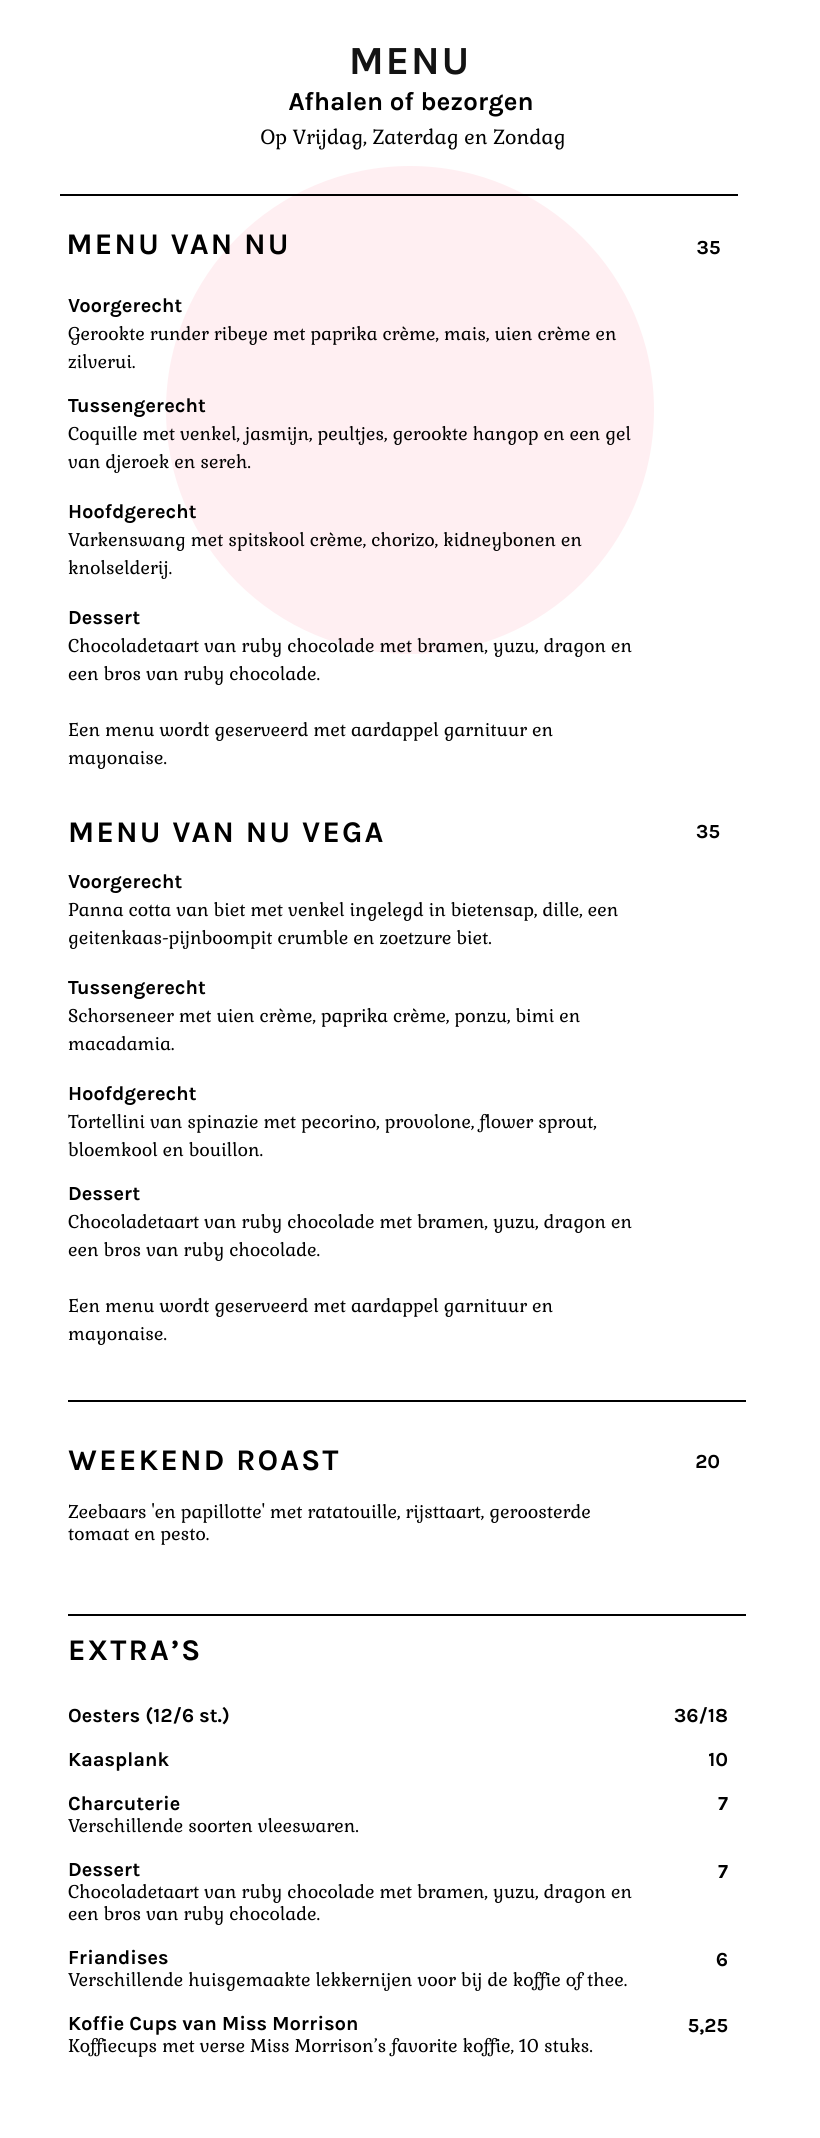
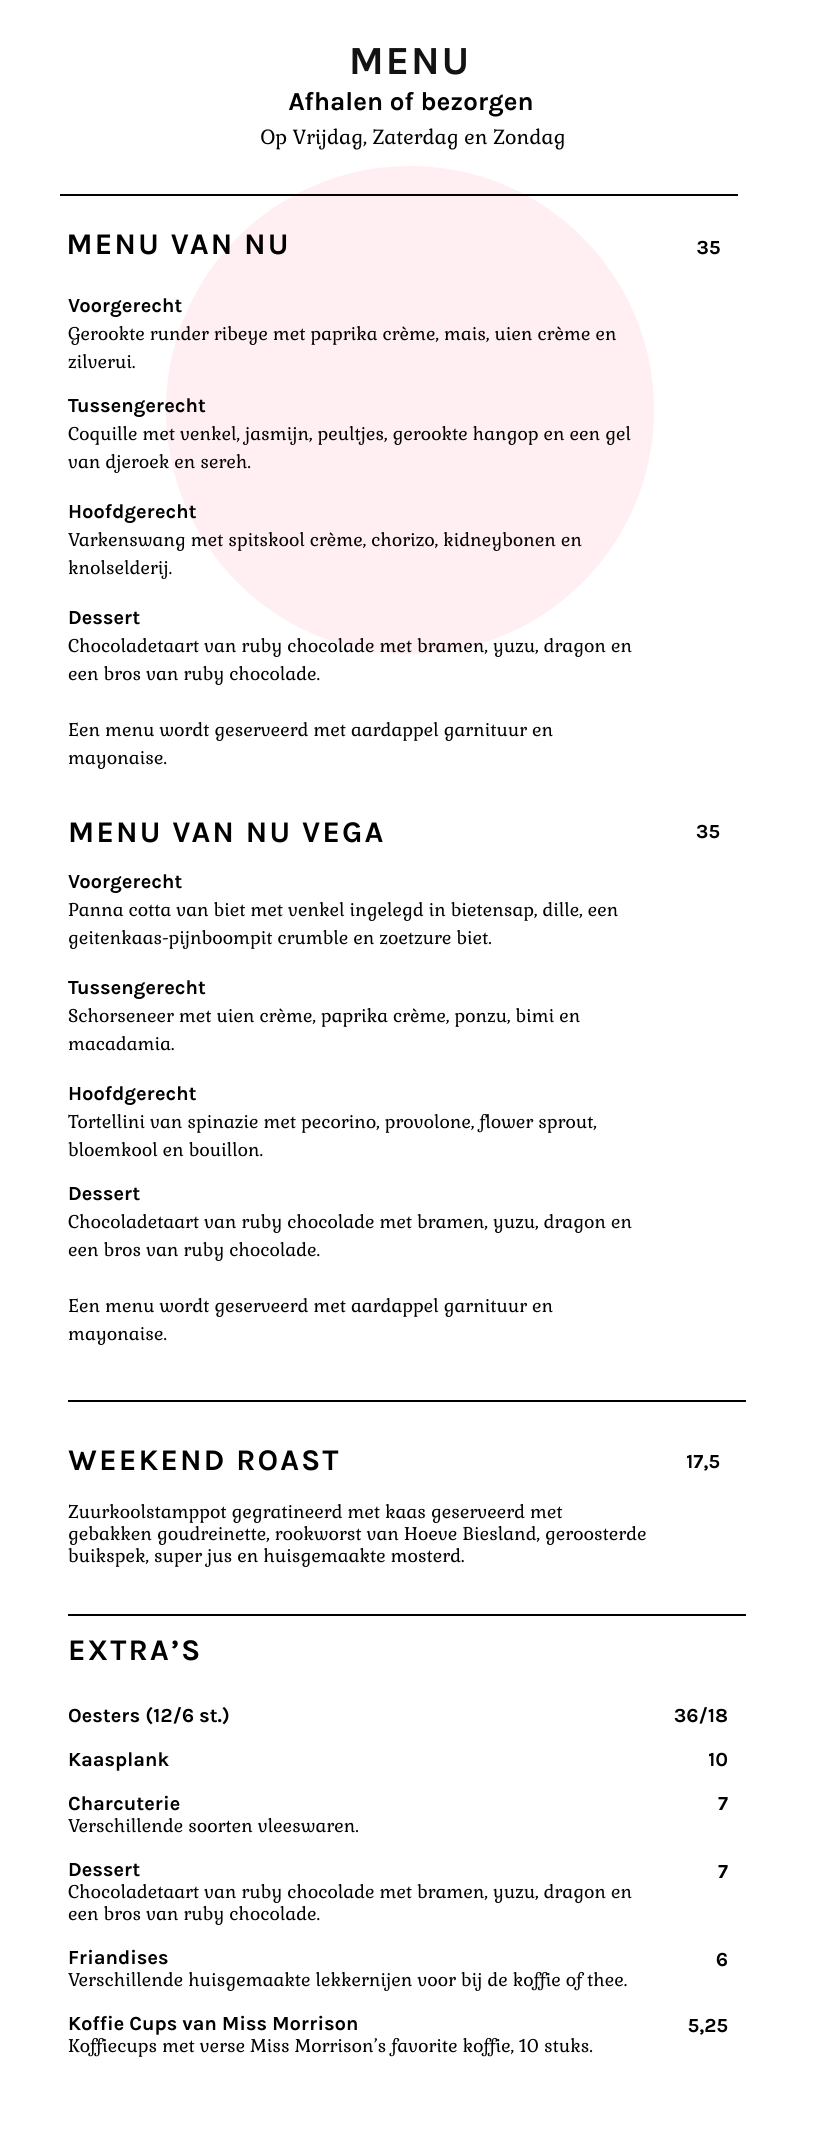
new roast

Changed region(s): [[0.0915, 0.6791, 0.6707, 0.7409]]

diff --git a/src/client/roast/index.html b/src/client/roast/index.html
@@ -105,14 +105,14 @@
           Zoals je van ons gewend bent maken we alles zelf met verse producten, dus bestel snel, want op = op!
       </p>
 
-      <p style="font-size:20px; font-family: Karla;"> <b> DIT WEEKEND - 11, 12, 13 DECEMBER</b></p>
+      <p style="font-size:20px; font-family: Karla;"> <b> DIT WEEKEND - 18, 19 en 20 DECEMBER</b></p>
       <div class="image-roast roast-header"></div><br>
-      <p>Zeebaars 'en papillotte' met ratatouille, rijsttaart, geroosterde tomaat en pesto. 
+      <p>Zuurkoolstamppot gegratineerd met kaas geserveerd met gebakken goudreinette, rookworst van Hoeve Biesland, geroosterde buikspek, super jus en huisgemaakte mosterd. 
       </p>
         <br>
         <p style="font-size:20px; font-family: Karla;"> <b> BIJPASSENDE WIJN </b></p>
-        <p><b>Zorzon – Pinot Grigio – D.O.C. Collio        </b></p>
-      <p>De acht hectaren aan wijngaarden van Zorzon bevinden zich in Collio, tegen de uitlopers van de Alpen aan de grens met Slovenië net buiten het dorpje Brazzano. De unieke grondsamenstelling in dit gebied die zorgt voor bijzondere wijnen noemen de Italianen ‘Ponca’. Deze bodem zorgt voor mineraalrijke wijnen. Neem deze Pinot Grigio: expressief en loepzuiver!
+        <p><b>Siegrist – Pinot Blanc – Q.b.A. Pfalz         </b></p>
+      <p>De eigenzinnige – en inmiddels 70 jaar oude wijnmaker – Thomas Siegrist maakt samen met zijn dochter en schoonzoon wijnen waar je voor omrijdt. Of in ons geval: wij rijden eens in de zoveel tijd speciaal naar de zuidelijke Pfalz om zijn wijnen in te slaan. Het pittoreske dorpje Leinsweiler ligt vlak tegen de grens met Frankrijk en leunt tegen de hellingen van het Pfälzerwald. Deze hellingen zorgen niet alleen voor optimale omstandigheden voor de wijnranken, maar ook voor een prachtig plaatje. Vanuit dit idyllische plaatsje begon Thomas in de jaren 80 een revolte tegen de gevestigde wijnorde. Met succes: Thomas is met drie andere jonge wijnmakers terug te vinden in de geschiedenisboeken als de jongens die Duitse wijnbouw een permanente kwaliteitsinjectie gaven. Deze Weissburgunder is het levende bewijs: levendig, fruitig en spatzuiver.  
         .<br>
         <br>
         </p>
@@ -130,25 +130,28 @@
         <div class="row">
           <div class="col-md-12">
             <h6>WEEKEND ROAST</h6>
-            <p>Te bestellen per twee personen</p>
+            <p>Te bestellen vanaf twee personen</p>
           </div>
         </div>
         <div class="form-group row">
-            <label for="aantal" class="col-sm-6">Aantal personen (20,00 p.p.)</label>
+            <label for="aantal" class="col-sm-6">Aantal personen (17,50 p.p.)</label>
             <div class="col-sm-6">
               <div class="selectpicker">
                 <select id="aantal" name="aantal" class="form-control small-field">
                   <option selected disabled value="">Hoeveel?</option>
                   <option value="2">2</option>
+                  <option value="3">3</option>
                   <option value="4">4</option>
+                  <option value="5">5</option>
                   <option value="6">6</option>
+                  <option value="7">7</option>
                   <option value="8">8</option>
                 </select>
               </div>
             </div>
         </div>
         <div class="form-group row">
-          <label for="wijn" class="col-sm-6">Fles wijn: Zorzon – Pinot Grigio (18 euro)</label>
+          <label for="wijn" class="col-sm-6">Siegrist – Pinot Blanc – Q.b.A. Pfalz (20 euro)</label>
           <div class="col-sm-6">
             <div class="selectpicker">
               <select id="wijn" name="wijn" class="form-control small-field">

diff --git a/src/client/style.css b/src/client/style.css
@@ -1151,7 +1151,7 @@ label{
 }
 
 .bestel-2{
-    background: url(img/bestel/roast-header.jpg) center 40%/cover no-repeat;
+    background: url(img/bestel/roast-header.jpg) center 50%/cover no-repeat;
 }
 
 .bestel-3{
@@ -1289,7 +1289,7 @@ label{
 /*******************/
 
 .roast-header {
-    background: url(img/roast/roast-header.jpg) center 25%/cover no-repeat;
+    background: url(img/roast/roast-header.jpg) center 44%/cover no-repeat;
 }
 
 @media (max-width: 480PX) {
